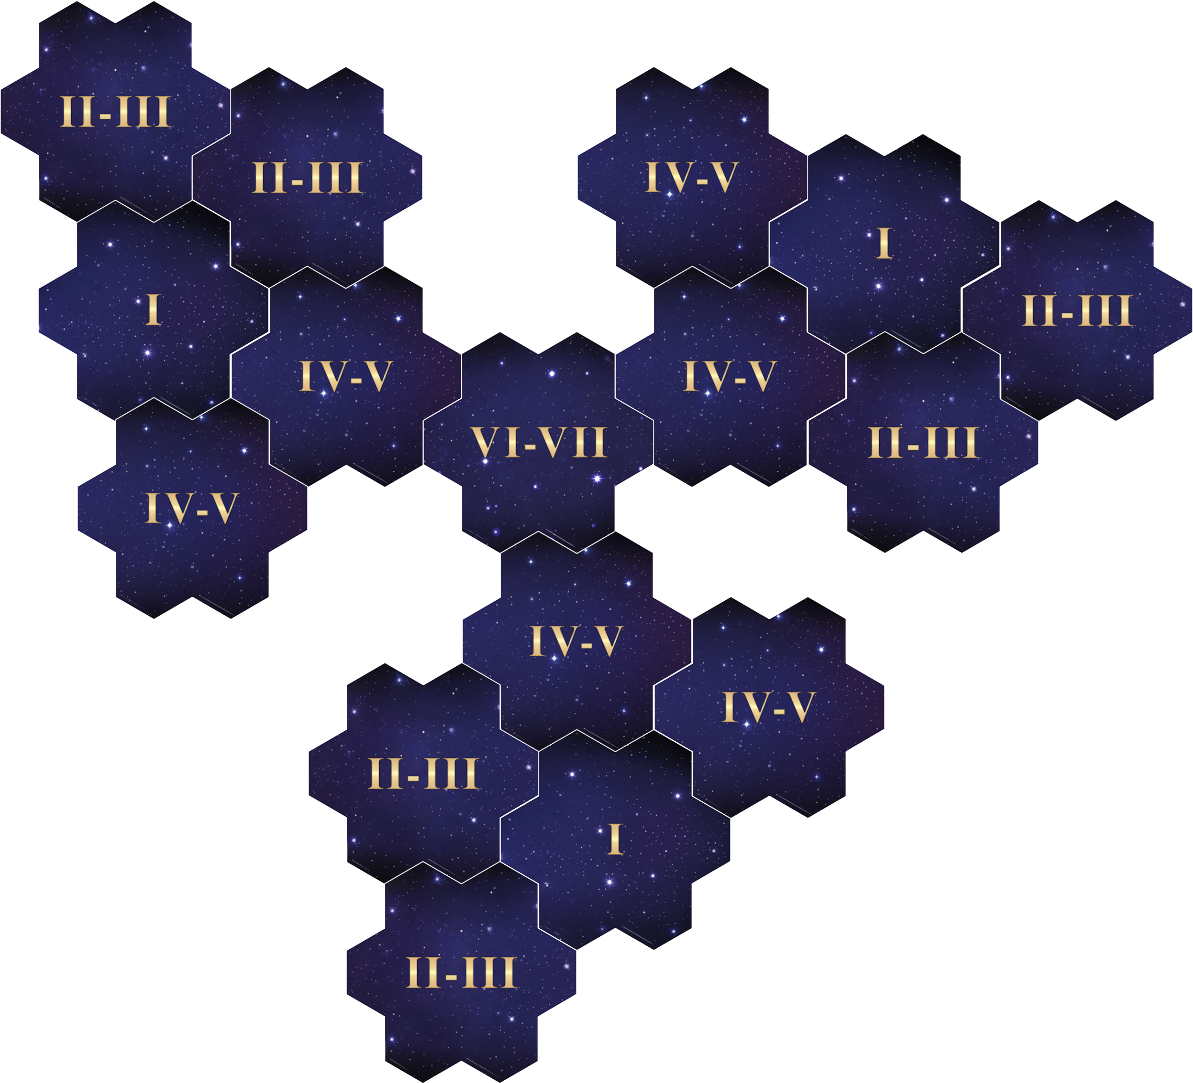
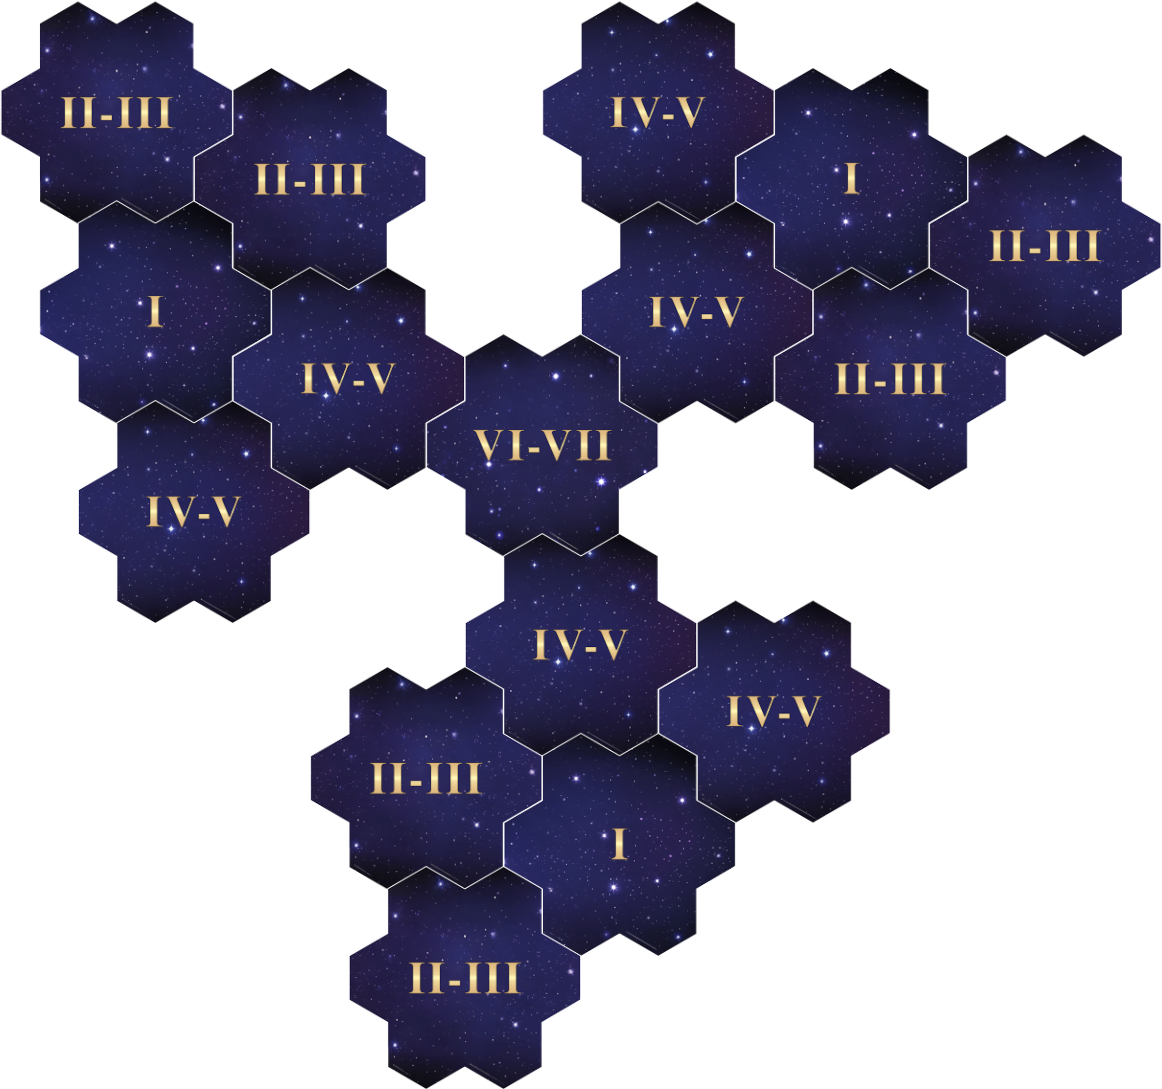
Trial by Combat changed victory condition (no VPs) and minor fixes (#235)

diff --git a/draft-scenarios/clash/trial_by_combat.tex b/draft-scenarios/clash/trial_by_combat.tex
@@ -8,7 +8,7 @@
 \textit{There is no honor — only victory or death. The weak will fall, the strong will fight, and only one will rule.}
 
 \subsection*{\MakeUppercase{Scenario Length}}
-This Scenario plays out over 8 Rounds.
+This Scenario plays out over 8-10 Rounds.
 
 \subsection*{\MakeUppercase{Player Setup}}
 \textbf{Player Count:} 2 -- 4
@@ -20,14 +20,14 @@ This Scenario plays out over 8 Rounds.
 \textbf{Starting Units:}
 \begin{itemize}
   \item A Few cheapest \silver\ Units
-  \item 1 random Neutral \bronze\ Unit
+  \item Search (2) Neutral \bronze\ Unit Deck
 \end{itemize}
 
 \textbf{Town Buildings:}
 \begin{itemize}
   \item \bronze\ Dwelling
   \item City Hall
-  \item \svg{building_special_tent} Building
+  \item Mage Guild
 \end{itemize}
 
 \subsection*{\MakeUppercase{Map Setup}}
@@ -36,20 +36,14 @@ Take the following Map Tiles and arrange them as shown in the Scenario map layou
 \begin{itemize}
   \item P × Starting (I) Map Tile
   \item 2P × Far (II-III) Map Tiles
-  \item 2P × Near (IV-V) Map Tiles
+  \item 2P × Near (IV-V) Map Tiles (one with Obelisk, adjacent to Center Map Tile)
   \item 1 × Center Map Tile. The center Field is ``The Hill''
 \end{itemize}
 
-\subsection*{\MakeUppercase{Victory Points}}
-After Round 8, the player with the most Victory Points (VP) wins (see Tournament Book). Players also gain:
-\begin{itemize}
-  \item 5 VP for the first player flagging ``The Hill''
-  \item 2 VP at the end of every Round for the player who controls ``The Hill''
-  \item 1 VP for losing a Combat against another player
-\end{itemize}
+\subsection*{\MakeUppercase{Victory Condition}}
+When any player first flags ``The Hill'', each player, including the one who flagged it, gets two more full turns. After all players have completed their turns, the game ends, and the player who controls ``The Hill'' at that time wins. However, if ``The Hill'' has not been flagged by the start of Round 9, the first player to flag it during or after Round 9 immediately wins the game.
 
 \subsection*{\MakeUppercase{Timed Events}}
-
 \textbf{\nth{1} Round:}
 \begin{itemize}
   \item All Heroes gain +1 \svgeven{movement}.
@@ -58,25 +52,27 @@ After Round 8, the player with the most Victory Points (VP) wins (see Tournament
 \begin{itemize}
   \item Players may gain either 10 \svg{gold}, 4 \svg{building_materials} or 2 \svg{valuables}.
 \end{itemize}
+\textbf{\nth{3} Round:}
+\begin{itemize}
+  \item Remove all Black Cubes from the Map.
+\end{itemize}
 \textbf{\nth{5} Round:}
 \begin{itemize}
   \item Remove all Black Cubes.
 \end{itemize}
-\textbf{\nth{7} Round:}
+\textbf{\nth{8} Round:}
 \begin{itemize}
   \item All Heroes gain +1 \svgeven{movement}.
 \end{itemize}
 
 \subsection*{\MakeUppercase{Additional Rules}}
 \begin{itemize}
-  \item Remove ``Unexpected Reinforcements'' from the Astrologers Proclaim Deck.
-  \item \azure\ Units cannot be recruited at any point of the game.
-  \item Citadel cannot be built on Round 1.
+  \item All players gain income every Round.  
   \item The blocked Field on the Center Map Tile is a Magic Spring and does not count as blocked.
   \item All Fields on the Center Map Tile are visitable once per Faction.
   \item Players do not lose \svg{gold} for losing or retreating from any Combat.
-  \item \textbf{Sanctuary:} Empower a Knowledge Statistic Card \textit{or} gain \svg{morale_positive}. \textit{Visitable once per Faction.}
-  \item \textbf{Obelisk:} Draw 1 Card. \textit{Visitable once per Faction.}
+  \item After winning a combat against another player’s Main Hero, you may recruit or reinforce one of your Units that was defeated (reduced to 0 hitpoints) during the battle, at no cost.
+  \item \textbf{Obelisk:} You may spawn your defeated Main Hero on an Obelisk you have flagged. \textit{Flaggable for all players.}
   \item \textit{Optional:} At the beginning of each Round, roll two Attack Dice separately and apply the effect from the table below.
 \end{itemize}
 
@@ -109,8 +105,8 @@ After Round 8, the player with the most Victory Points (VP) wins (see Tournament
   \end{tabularx}
 }
 \begin{itemize}
-  \item After winning a Neutral Combat, you may sacrifice 3 \bronze\ Units to gain 1 \silver\ Unit you~defeated.
-  \item At the start of the next turn, a defeated main Hero may gain +2 \svg{movement}, Empower any Statistic Card from their M\&M Deck, \textit{and} Search (2) the \silver\ Neutral Deck.
+  \item After winning a Neutral Combat, you may sacrifice 2 \bronze\ Units to gain 1 \silver\ Unit you defeated.
+  \item At the start of the next turn, a defeated main Hero may Empower any Statistic Card from their M\&M Deck, and Search (2) the \silver\ Neutral Deck.
 \end{itemize}
 
 \begin{center}
